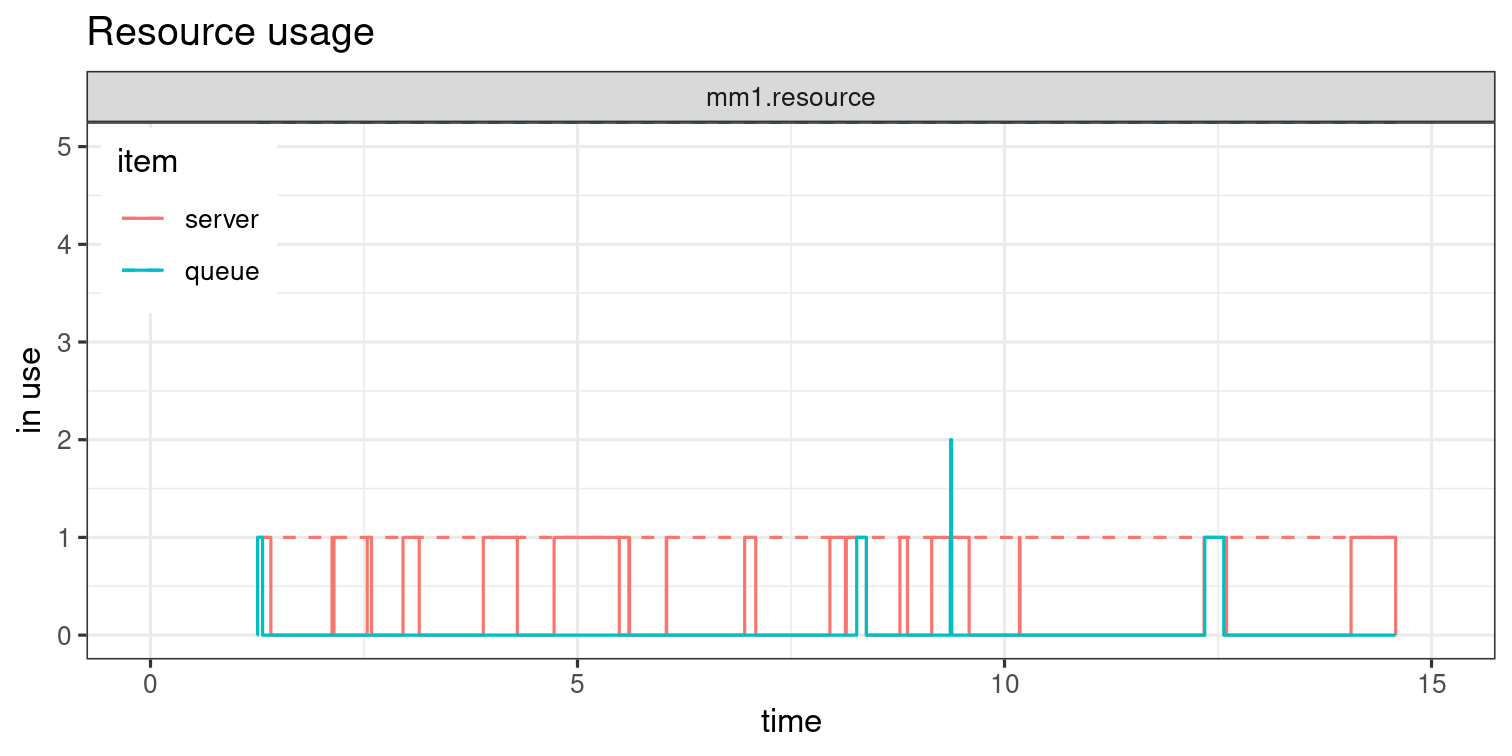
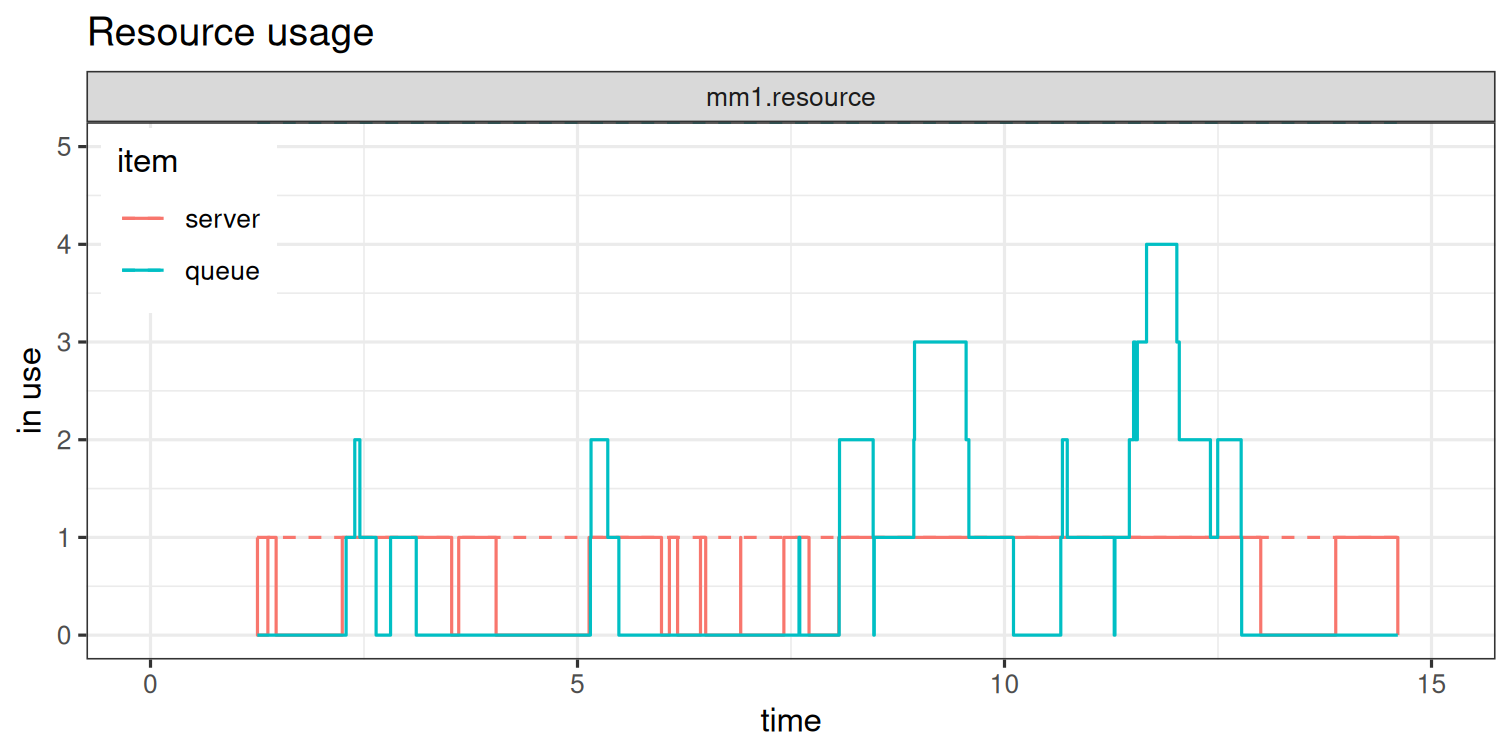
some fixes

diff --git a/slides/20191115_XIjuR_simmer.html b/slides/20191115_XIjuR_simmer.html
@@ -1,22 +1,35 @@
 <!DOCTYPE html>
-<html xmlns="http://www.w3.org/1999/xhtml" lang="" xml:lang="">
+<html lang="" xml:lang="">
   <head>
     <title>simmer</title>
     <meta charset="utf-8" />
-    <meta name="author" content="Iñaki Úcar, postdoctoral fellow @ UC3M-Santander Big Data Institute (IBiDat)  Bart Smeets, data scientist @ dataroots.io" />
+    <meta name="author" content="Iñaki Úcar, postdoctoral fellow @ UC3M-Santander Big Data Institute (IBiDat)" />
+    <meta name="author" content="Bart Smeets, founder &amp; data scientist @ dataroots.io" />
+    <script src="libs/header-attrs/header-attrs.js"></script>
     <link href="libs/remark-css/default.css" rel="stylesheet" />
     <link href="libs/remark-css/metropolis-fonts.css" rel="stylesheet" />
-    <link rel="stylesheet" href="libs/metropolis.css" type="text/css" />
+    <link href="libs/remark-css/metropolis.css" rel="stylesheet" />
     <link rel="stylesheet" href="libs/my-theme.css" type="text/css" />
   </head>
   <body>
     <textarea id="source">
 class: center, middle, inverse, title-slide
 
+.title[
 # simmer
+]
+.subtitle[
 ## Discrete-Event Simulation for R
-### <strong>Iñaki Úcar</strong>, postdoctoral fellow @ UC3M-Santander Big Data Institute (IBiDat) <br>Bart Smeets, data scientist @ dataroots.io
+]
+.author[
+### <strong>Iñaki Úcar</strong>, postdoctoral fellow @ UC3M-Santander Big Data Institute (IBiDat)
+]
+.author[
+### Bart Smeets, founder &amp; data scientist @ dataroots.io
+]
+.date[
 ### <br>November 15-16, 2019
+]
 
 ---
 
@@ -293,12 +306,12 @@ env
 ```
 
 ```
-## simmer environment: Job Shop | now: 1000 | next: 1000.11891377085
+## simmer environment: Job Shop | now: 1000 | next: 1000.09508921831
 ## { Monitor: in memory }
-## { Resource: machine | monitored: TRUE | server status: 9(10) | queue status: 0(Inf) }
-## { Resource: operative | monitored: TRUE | server status: 4(5) | queue status: 0(Inf) }
-## { Source: job | monitored: 1 | n_generated: 4954 }
-## { Source: task | monitored: 1 | n_generated: 1041 }
+## { Resource: machine | monitored: TRUE | server status: 3(10) | queue status: 0(Inf) }
+## { Resource: operative | monitored: TRUE | server status: 2(5) | queue status: 0(Inf) }
+## { Source: job | monitored: 1 | n_generated: 5177 }
+## { Source: task | monitored: 1 | n_generated: 995 }
 ```
 ]
 
@@ -313,8 +326,8 @@ aggregate(cbind(server, queue) ~ resource, get_mon_resources(env), mean)
 
 ```
 ##    resource   server     queue
-## 1   machine 7.632616 0.5598666
-## 2 operative 3.389082 0.3436009
+## 1   machine 7.987438 1.0355590
+## 2 operative 3.505732 0.4441298
 ```
 
 ---
@@ -635,9 +648,9 @@ head(get_mon_arrivals(mm1.envs), 3)
 
 ```
 ##       name start_time  end_time activity_time finished replication
-## 1 arrival0  0.1455818 0.4810091     0.3354273     TRUE           1
-## 2 arrival1  0.2380988 0.6834863     0.2024772     TRUE           1
-## 3 arrival2  0.4526185 0.8724942     0.1890079     TRUE           1
+## 1 arrival0 0.04471412 0.2337613   0.189047164     TRUE           1
+## 2 arrival1 0.17734846 0.2384445   0.004683229     TRUE           1
+## 3 arrival2 0.52254010 0.9208069   0.398266801     TRUE           1
 ```
 
 ---
@@ -848,7 +861,7 @@ class: center, middle, inverse, mline
 &lt;div class="hexagon" style="bottom:0;left:551px"&gt;&lt;/div&gt;
 
 &lt;div class="hexagon" style="bottom:118px;left:75px"&gt;&lt;/div&gt;
-&lt;div style="position:absolute;bottom:118px;left:211px;filter:drop-shadow(2px 4px 6px black)"&gt;![:scale 100%](https://r-simmer.org/images/simmer-hex-02.svg)&lt;/div&gt;
+&lt;div style="position:absolute;bottom:118px;left:211px;filter:drop-shadow(2px 4px 6px black);width:129px"&gt;![:scale 100%](https://r-simmer.org/images/simmer-hex-02.svg)&lt;/div&gt;
 &lt;div class="hexagon" style="bottom:118px;left:347px"&gt;&lt;/div&gt;
 
 &lt;div class="hexagon" style="bottom:236px;left:143px"&gt;&lt;/div&gt;
@@ -900,6 +913,45 @@ if (window.HTMLWidgets) slideshow.on('afterShowSlide', function (slide) {
     deleted = true;
   });
 })();
+// add `data-at-shortcutkeys` attribute to <body> to resolve conflicts with JAWS
+// screen reader (see PR #262)
+(function(d) {
+  let res = {};
+  d.querySelectorAll('.remark-help-content table tr').forEach(tr => {
+    const t = tr.querySelector('td:nth-child(2)').innerText;
+    tr.querySelectorAll('td:first-child .key').forEach(key => {
+      const k = key.innerText;
+      if (/^[a-z]$/.test(k)) res[k] = t;  // must be a single letter (key)
+    });
+  });
+  d.body.setAttribute('data-at-shortcutkeys', JSON.stringify(res));
+})(document);
+(function() {
+  "use strict"
+  // Replace <script> tags in slides area to make them executable
+  var scripts = document.querySelectorAll(
+    '.remark-slides-area .remark-slide-container script'
+  );
+  if (!scripts.length) return;
+  for (var i = 0; i < scripts.length; i++) {
+    var s = document.createElement('script');
+    var code = document.createTextNode(scripts[i].textContent);
+    s.appendChild(code);
+    var scriptAttrs = scripts[i].attributes;
+    for (var j = 0; j < scriptAttrs.length; j++) {
+      s.setAttribute(scriptAttrs[j].name, scriptAttrs[j].value);
+    }
+    scripts[i].parentElement.replaceChild(s, scripts[i]);
+  }
+})();
+(function() {
+  var links = document.getElementsByTagName('a');
+  for (var i = 0; i < links.length; i++) {
+    if (/^(https?:)?\/\//.test(links[i].getAttribute('href'))) {
+      links[i].target = '_blank';
+    }
+  }
+})();
 // adds .remark-code-has-line-highlighted class to <pre> parent elements
 // of code chunks containing highlighted lines with class .remark-code-line-highlighted
 (function(d) {
@@ -917,17 +969,6 @@ if (window.HTMLWidgets) slideshow.on('afterShowSlide', function (slide) {
   }
   preParents.forEach(p => p.classList.add("remark-code-has-line-highlighted"));
 })(document);</script>
-
-<script>
-(function() {
-  var links = document.getElementsByTagName('a');
-  for (var i = 0; i < links.length; i++) {
-    if (/^(https?:)?\/\//.test(links[i].getAttribute('href'))) {
-      links[i].target = '_blank';
-    }
-  }
-})();
-</script>
 
 <script>
 slideshow._releaseMath = function(el) {

diff --git a/slides/libs/remark-css/metropolis.css b/slides/libs/remark-css/metropolis.css
@@ -16,13 +16,6 @@
   text-shadow: none;
 }
 
-inverse {
-  width: 112px;
-  height: 47px;
-  border-bottom: 1px solid black;
-  position: absolute;
-}
-
 /* Removes colored bar from top of the slide resulting in a clear slide */
 .clear{
   border-top: 0px solid #FAFAFA;
@@ -98,6 +91,27 @@ h2, h3, h4 {
   text-align: left;
   margin-left: 15px;
   margin-bottom: -30px;
+}
+
+hr, .title-slide h2::after, .mline h1::after {
+  content: '';
+  display: block;
+  border: none;
+  background-color: #EB811B;
+  color: #EB811B;
+  height: 1px;
+}
+
+hr, .mline h1::after {
+  margin: 1em 15px 0 15px;
+}
+
+.title-slide h2::after {
+  margin: 10px 15px 35px 0;
+}
+
+.mline h1::after {
+  margin: 10px 15px 0 15px;
 }
 
 .remark-slide-number {

diff --git a/slides/libs/header-attrs/header-attrs.js b/slides/libs/header-attrs/header-attrs.js
@@ -1,0 +1,12 @@
+// Pandoc 2.9 adds attributes on both header and div. We remove the former (to
+// be compatible with the behavior of Pandoc < 2.8).
+document.addEventListener('DOMContentLoaded', function(e) {
+  var hs = document.querySelectorAll("div.section[class*='level'] > :first-child");
+  var i, h, a;
+  for (i = 0; i < hs.length; i++) {
+    h = hs[i];
+    if (!/^h[1-6]$/i.test(h.tagName)) continue;  // it should be a header h1-h6
+    a = h.attributes;
+    while (a.length > 0) h.removeAttribute(a[0].name);
+  }
+});

diff --git a/slides/libs/my-theme.css b/slides/libs/my-theme.css
@@ -45,24 +45,3 @@
 .footnote {
   bottom: 1em;
 }
-
-hr, .title-slide h2::after, .mline h1::after {
-  content: '';
-  display: block;
-  border: none;
-  background-color: #EB811B;
-  color: #EB811B;
-  height: 1px;
-}
-
-hr, .mline h1::after {
-  margin: 1em 15px 0 15px;
-}
-
-.title-slide h2::after {
-  margin: 10px 15px 35px 0;
-}
-
-.mline h1::after {
-  margin: 10px 15px 0 15px;
-}

diff --git a/slides/libs/remark-css/default.css b/slides/libs/remark-css/default.css
@@ -41,7 +41,7 @@ a, a > code {
   float: right;
   width: 47%;
 }
-.pull-right ~ * {
+.pull-right + * {
   clear: both;
 }
 img, video, iframe {
